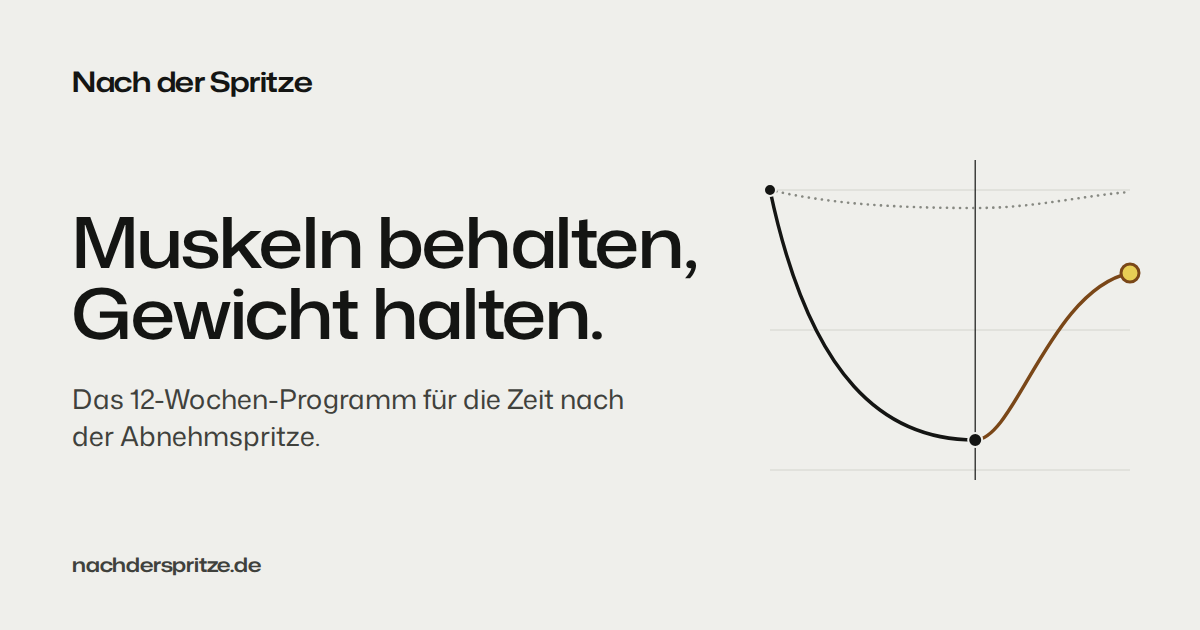
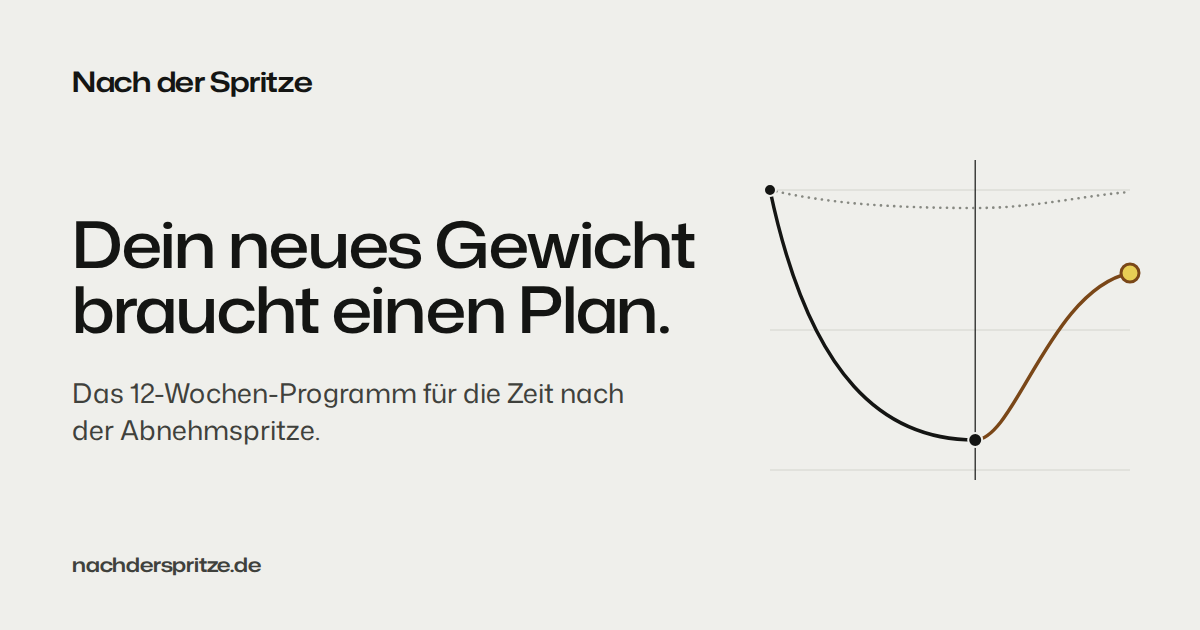
Startseite: „Dein neues Gewicht braucht einen Plan.“ (Dominik, 07.10.2026)
- Überschrift, Suchtitel und site.claim neu; Untertitel endet mit „Für alle,
  die nicht wieder von vorn anfangen wollen.“ (ohne halten/behalten)
- Vorschaubild og-default.png neu erzeugt; og:image mit ?v=2026-10-07, damit
  Messenger und Netzwerke nicht das alte Bild aus dem Cache zeigen
- CLAIMS.md D1 nachgezogen, Startseite in docs/INDEXIERUNG.md als offen

Claude-Session: https://claude.ai/code/session_01WYipH68SHad7K3HgQqyJuD

Changed region(s): [[0.0617, 0.3317, 0.5858, 0.5429], [0.0617, 0.6032, 0.5242, 0.7238]]

diff --git a/src/data/site.ts b/src/data/site.ts
@@ -4,7 +4,7 @@
  */
 export const site = {
   name: 'Nach der Spritze',
-  claim: 'Muskeln behalten, Gewicht halten.',
+  claim: 'Dein neues Gewicht braucht einen Plan.',
   url: import.meta.env.SITE ?? 'https://nachderspritze.de',
   locale: 'de_DE',
   lang: 'de',

diff --git a/CLAIMS.md b/CLAIMS.md
@@ -76,7 +76,7 @@ Status: ✅ zugelassen und Bedingung erfüllt · ⚠ prüfen (Michi / ggf. An
 
 | # | Aussage | Wo | Einschätzung | Status |
 |---|---|---|---|---|
-| D1 | Überschrift „Nach der Spritze: Muskeln behalten, Gewicht halten.“ | Hero, Title, OG-Bild | „Gewicht halten“ beschreibt das Ziel der Nutzer, nicht eine Wirkung des Sets; kein Wirkstoffbezug. Trotzdem Bezug zu „Gewichtskontrolle“ (Art. 13 HCVO). Alternative ohne Gewichtsbezug: „Nach der Spritze: Muskeln behalten. Dranbleiben.“ (Variante B/C im Code als Kommentar). | ⚠ |
+| D1 | Überschrift „Nach der Spritze: Dein neues Gewicht braucht einen Plan.“ (Dominik, 07.10.2026; vorher „Muskeln behalten, Gewicht halten.“) | Hero, Title, OG-Bild | Beschreibt, was das Programm ist (ein Plan), keine Wirkung und kein Ergebnis; kein Wirkstoffbezug. Trotzdem Bezug zu „Gewichtskontrolle“ (Art. 13 HCVO). Alternative ohne Gewichtsbezug: „Nach der Spritze: Muskeln behalten. Dranbleiben.“ (Variante B/C im Code als Kommentar). | ⚠ |
 | D2 | „Vier Bausteine, ein Ziel: das Erreichte halten.“ | Set-Überschrift (seit 06.10.2026 nicht mehr verwendet) | Wie D1. | ⚠ |
 | D3 | „Der Stick schließt die Lücke.“ (Protein) | Set-Karte | Bezieht sich auf die Proteinmenge (faktisch 20 g), nicht auf eine Wirkung. | ✅ |
 | D4 | „Wirkt nur zusammen mit Krafttraining“ (Kreatin) | Set-Karte | Konsistent mit Claim-Bedingung; keine Zusatzwirkung behauptet. | ✅ |

diff --git a/docs/INDEXIERUNG.md b/docs/INDEXIERUNG.md
@@ -119,3 +119,4 @@ Angemeldet vor dieser Datei (Stand 29./30.09.): `/`, `/wissen/`, `/ueber/`, `/wi
 | https://nachderspritze.de/marktradar/ | Redesign „Kalk“: neue Struktur | 2026-10-06 | offen |
 | https://nachderspritze.de/wissen/ | Redesign „Kalk“: neue Struktur | 2026-10-06 | offen |
 | https://nachderspritze.de/erfahrungen/ | vorerst noindex bis zum ersten echten Bericht, dann wieder indexierbar machen und anmelden | 2026-10-07 | noindex |
+| https://nachderspritze.de/ | Neue Überschrift und neuer Titel „Dein neues Gewicht braucht einen Plan“ | 2026-10-07 | offen |
